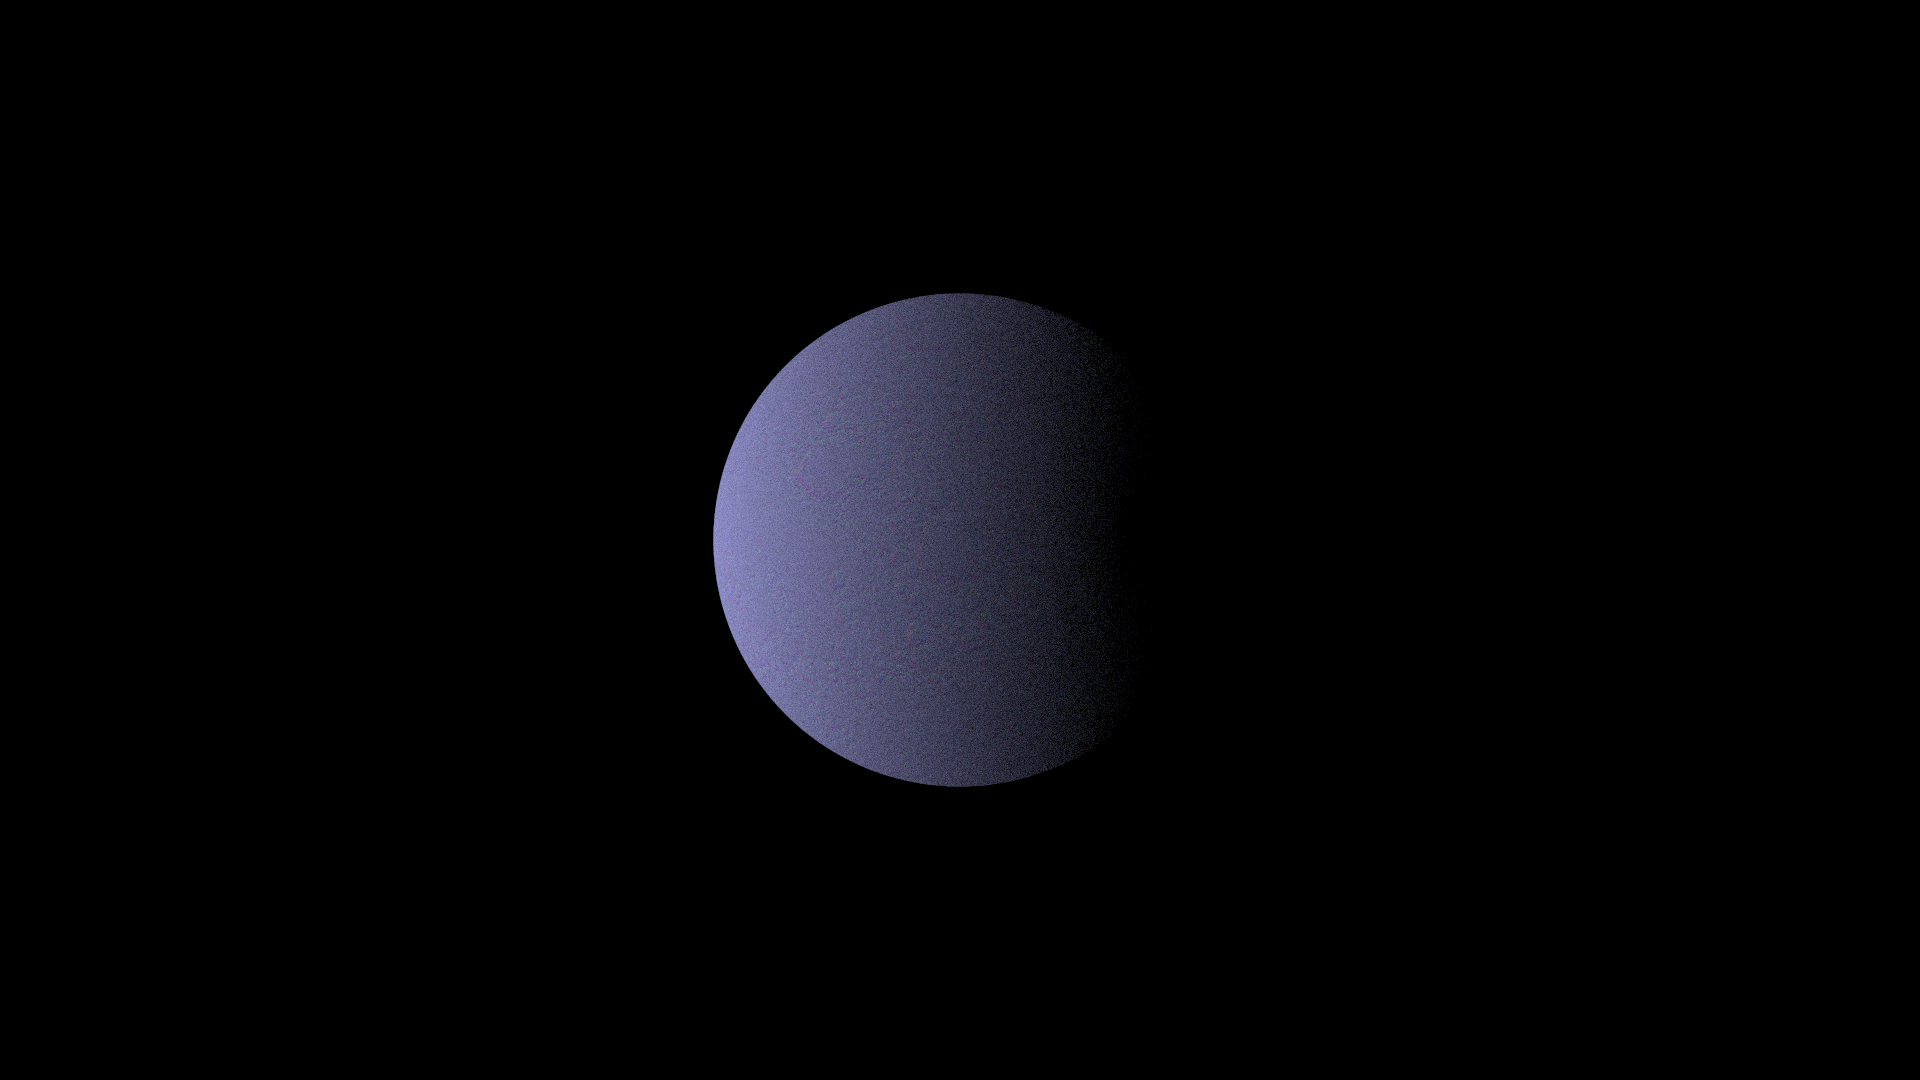
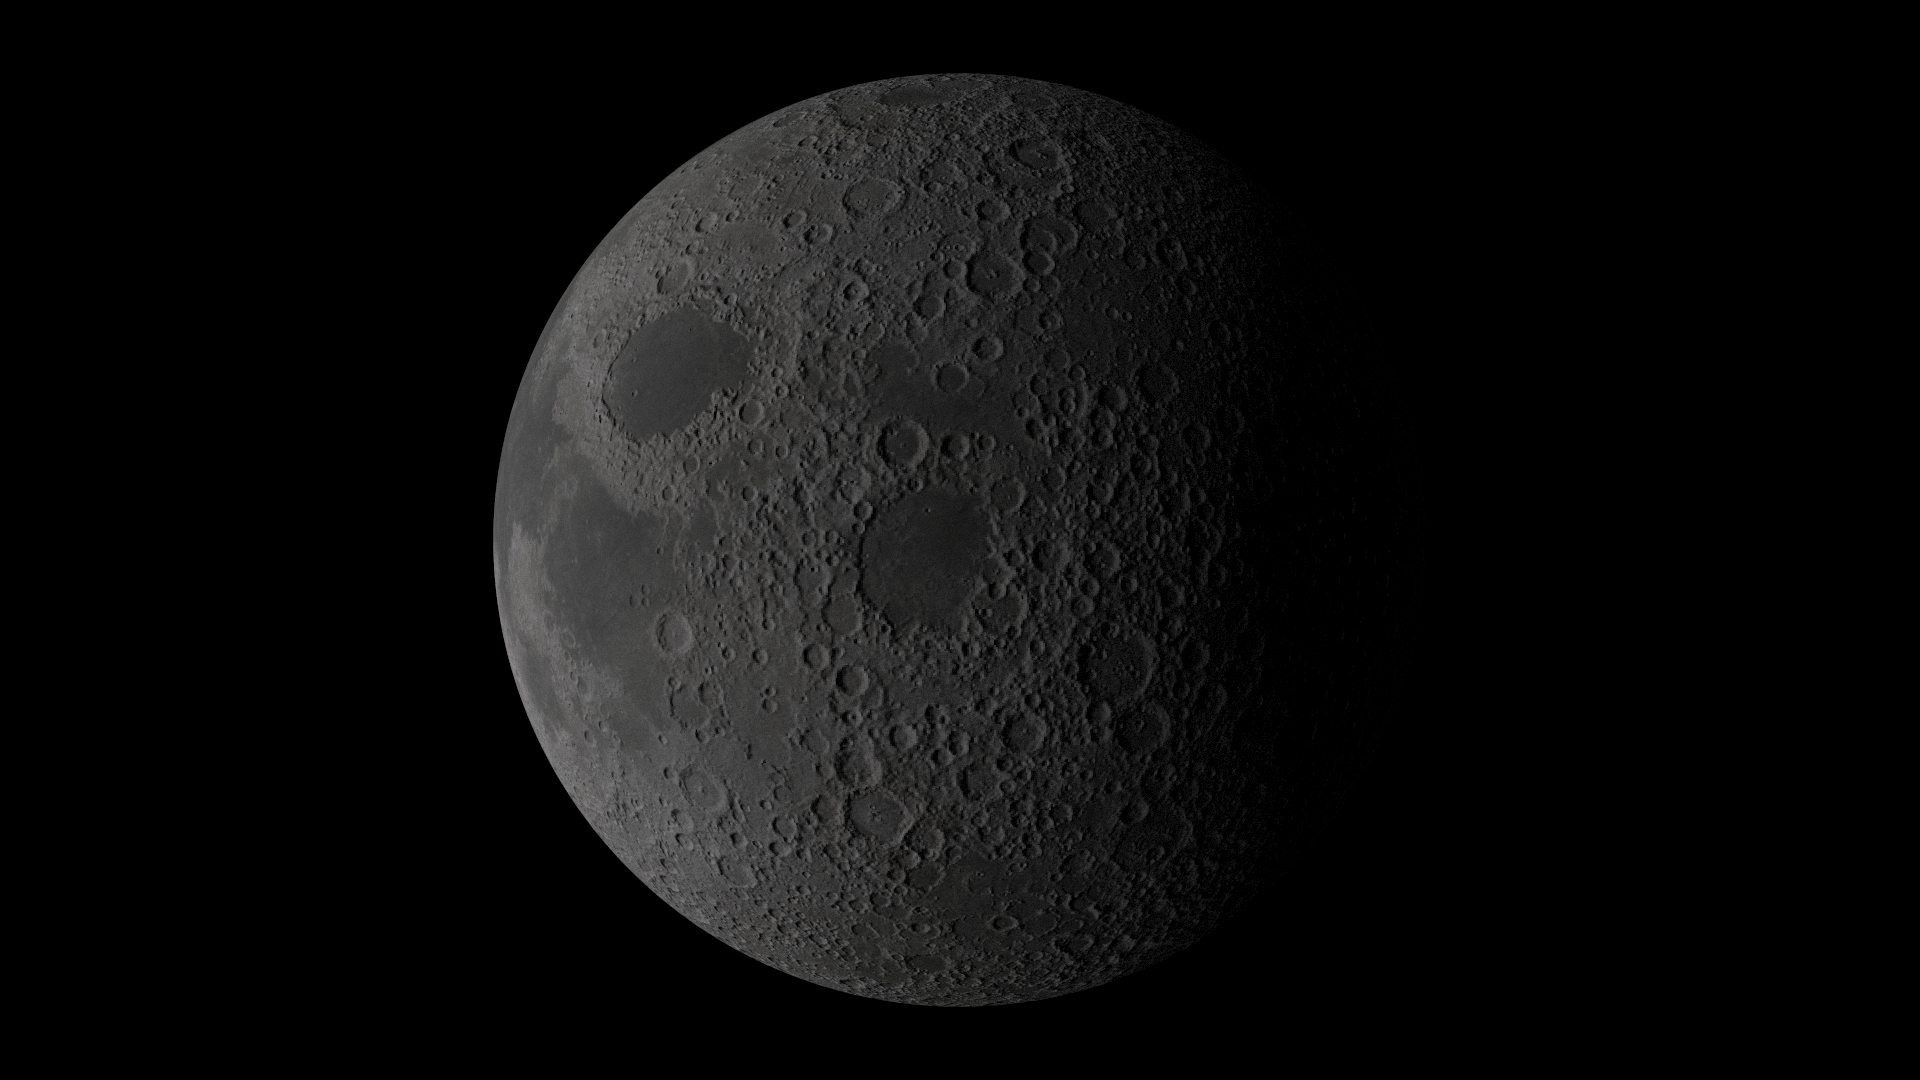
Normal maps for spheres

Changed region(s): [[0.25, 0.0611, 0.625, 0.9472]]

diff --git a/src/material.hpp b/src/material.hpp
@@ -23,27 +23,42 @@ namespace art {
 
 	class Lambertian : public Material {
 	public:
-		Lambertian(const glm::vec3 &albedo, float smoothness, float specularProbability, const Texture *normals = nullptr) :
+		Lambertian(const glm::vec3 &albedo, float smoothness, float specularProbability, const Texture *normals, float normalsStrength) :
 			m_albedo(albedo),
 			m_textureAlbedo(nullptr),
 			m_textureNormals(normals),
+			m_normalsStrength(normalsStrength),
 			m_smoothness(smoothness),
 			m_specularProbability(specularProbability) {}
 
-		Lambertian(const Texture *albedo, float smoothness, float specularProbability, const Texture *normals = nullptr) :
+		Lambertian(const Texture *albedo, float smoothness, float specularProbability, const Texture *normals, float normalsStrength) :
 			m_albedo(glm::vec3(1)),
 			m_textureAlbedo(albedo),
 			m_textureNormals(normals),
+			m_normalsStrength(normalsStrength),
 			m_smoothness(smoothness),
 			m_specularProbability(specularProbability) {}
 
 		bool Scatter(const Ray &rayIn, const HitInfo &hitInfo, glm::vec3 &attenuation, Ray &rayOut) const override {
 
-			glm::vec3 diffuseDir = hitInfo.N + RandomVec();
-			glm::vec3 reflectDir = glm::reflect(rayIn.GetDirection(), hitInfo.N);
+			glm::vec3 N;
+			if (m_textureNormals) {
+				glm::vec3 tangentSpaceNormal = m_textureNormals->Sample(hitInfo.u, hitInfo.v, hitInfo.p) * 2.0f - 1.0f;
+				tangentSpaceNormal.x *= m_normalsStrength;
+				tangentSpaceNormal.y *= m_normalsStrength;
+				tangentSpaceNormal = glm::normalize(tangentSpaceNormal);
+
+				glm::mat3 TBN = glm::mat3(hitInfo.T, hitInfo.BT, hitInfo.N);
+				N = glm::normalize(TBN * tangentSpaceNormal);
+			} else {
+				N = hitInfo.N;
+			}
+			 
+			glm::vec3 diffuseDir = N + RandomVec();
+			glm::vec3 reflectDir = glm::reflect(rayIn.GetDirection(), N);
 
 			if (VecNearZero(diffuseDir)) {
-				diffuseDir = hitInfo.N;
+				diffuseDir = N;
 			}
 
 			bool isSpecularBounce = m_specularProbability >= Random();
@@ -65,6 +80,7 @@ namespace art {
 		glm::vec3      m_albedo;
 		const Texture *m_textureAlbedo;
 		const Texture *m_textureNormals;
+		float          m_normalsStrength;
 		float          m_smoothness;
 		float          m_specularProbability;
 	};

diff --git a/src/scene-parser.hpp b/src/scene-parser.hpp
@@ -148,14 +148,16 @@ namespace art {
 						material["albedo"].as<glm::vec3>(),
 						material["smoothness"] ? material["smoothness"].as<float>() : 0.0,
 						material["specular probability"] ? material["specular probability"].as<float>() : 0.0,
-						material["normal map"] ? ParseTexture(material["normal map"].as<std::string>(), scene) : nullptr
+						material["normal map"] ? ParseTexture(material["normal map"].as<std::string>(), scene) : nullptr,
+						material["normal map strength"] ? material["normal map strength"].as<float>() : 1.0
 					);
 				} else {
 					result = std::make_unique<Lambertian>(
 						ParseTexture(material["albedo"].as<std::string>(), scene),
 						material["smoothness"] ? material["smoothness"].as<float>() : 0.0,
 						material["specular probability"] ? material["specular probability"].as<float>() : 0.0,
-						material["normal map"] ? ParseTexture(material["normal map"].as<std::string>(), scene) : nullptr
+						material["normal map"] ? ParseTexture(material["normal map"].as<std::string>(), scene) : nullptr,
+						material["normal map strength"] ? material["normal map strength"].as<float>() : 1.0
 					);
 				}
 			} else if (type == "metal") {

diff --git a/src/hittable.hpp b/src/hittable.hpp
@@ -14,6 +14,8 @@ namespace art {
 	struct HitInfo {
 		glm::vec3 p;
 		glm::vec3 N;
+		glm::vec3 T;
+		glm::vec3 BT;
 		Material *mat;
 		float t;
 		float u;
@@ -89,6 +91,11 @@ namespace art {
 			hitInfo.SetFaceNormal(r, outN);
 			GetSphereUV(outN, hitInfo.u, hitInfo.v);
 			hitInfo.mat = m_mat;
+
+			// calculate tangent space for normal maps
+			float phi = std::atan2(-hitInfo.p.z, hitInfo.p.x) + pi;
+			hitInfo.T = -glm::vec3(-sin(phi), 0, cos(phi));
+			hitInfo.BT = glm::cross(hitInfo.N, hitInfo.T);
 
 			return true;
 		}
